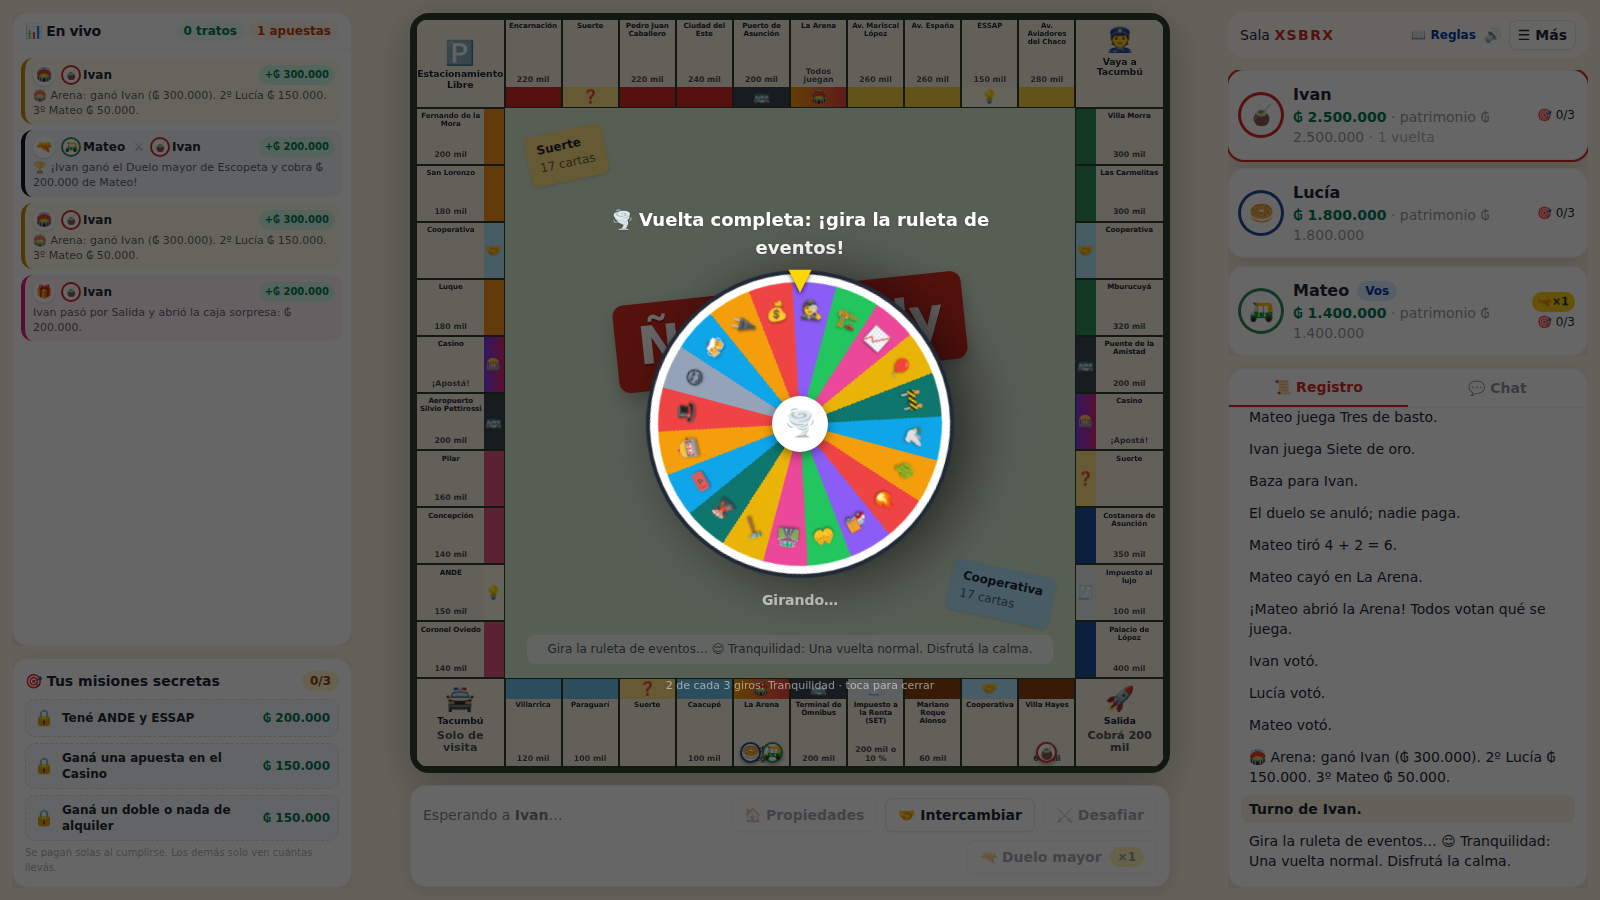
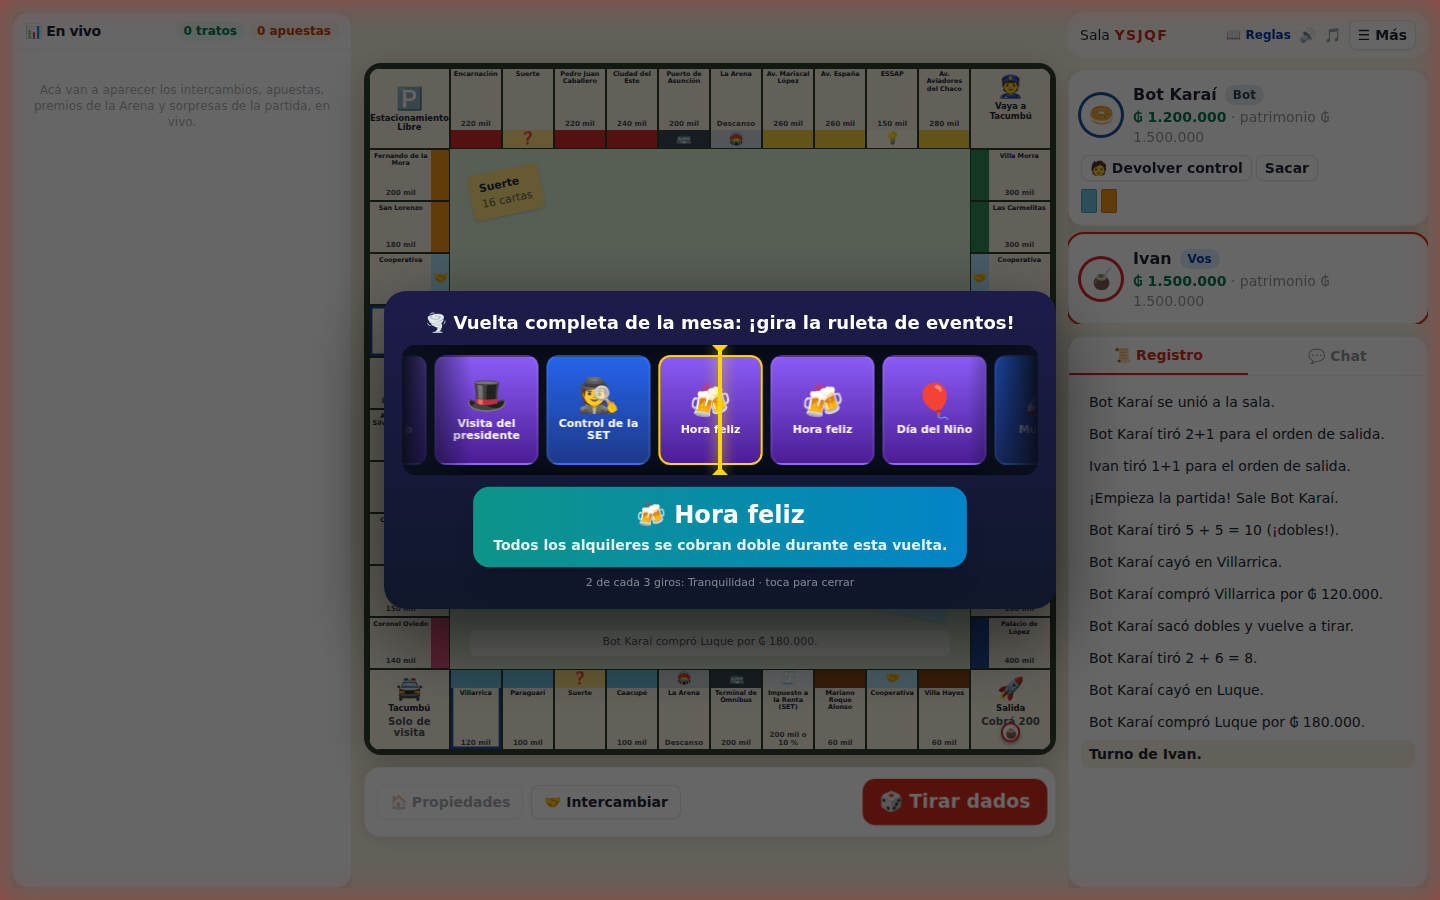
v1.3.3: carretes de caja y ruleta

diff --git a/apps/web/src/components/LootboxOverlay.tsx b/apps/web/src/components/LootboxOverlay.tsx
@@ -3,11 +3,12 @@ import { AnimatePresence, motion } from 'framer-motion';
 import { LOOTBOX } from '@nandepoly/engine';
 import { useStore } from '../store';
 import { epic, sfx } from '../sound';
+import { useReelSpin } from './reel';
 import { tokenEmoji } from '../format';
 
 const CELL = 96;      // ancho de cada premio en el carrete (px incl. gap)
 const CELLS = 40;     // celdas totales del carrete
-const WIN = 33;       // celda donde frena
+const WIN = 34;       // celda donde frena (las celdas pasan de derecha a izquierda)
 const SPIN_MS = 3500; // duración del giro
 
 const ICON: Record<string, string> = {
@@ -58,6 +59,9 @@ export default function LootboxOverlay() {
     return () => clearTimeout(t);
   }, [box?.id]); // eslint-disable-line react-hooks/exhaustive-deps
 
+  // El giro en sí arranca cuando el carrete ya está en pantalla (fase 'spin')
+  useReelSpin(stripRef, phase === 'spin', { cell: CELL, winCell: WIN, ms: SPIN_MS, direction: 'left', jitterKey: box?.id });
+
   // Apertura: fanfarria + giro
   useEffect(() => {
     if (!box?.openedAt) return;
@@ -66,17 +70,6 @@ export default function LootboxOverlay() {
     const start = setTimeout(() => {
       setPhase('spin');
       epic();
-      const strip = stripRef.current;
-      if (strip) {
-        strip.style.transition = 'none';
-        strip.style.transform = 'translateX(0px)';
-        const jitter = (Math.random() - 0.5) * (CELL * 0.6);
-        const target = -(WIN * CELL - (strip.parentElement!.clientWidth / 2 - CELL / 2)) + jitter;
-        requestAnimationFrame(() => {
-          strip.style.transition = `transform ${SPIN_MS}ms cubic-bezier(.08,.82,.17,1)`;
-          strip.style.transform = `translateX(${target}px)`;
-        });
-      }
       let n = 0;
       const schedule = (d: number) => { if (d > SPIN_MS - 100) return; timers.push(setTimeout(() => { sfx.tick(); n++; schedule(d + 40 + n * n * 1.9); }, d)); };
       schedule(60);

diff --git a/apps/web/src/components/EventWheel.tsx b/apps/web/src/components/EventWheel.tsx
@@ -3,10 +3,11 @@ import { AnimatePresence, motion } from 'framer-motion';
 import { EVENTS } from '@nandepoly/engine';
 import { useStore } from '../store';
 import { sfx } from '../sound';
+import { useReelSpin } from './reel';
 
 const CELL = 112;     // ancho de cada evento en el carrete (px incl. gap)
 const CELLS = 46;
-const WIN = 8;        // celda donde frena (el carrete avanza de izquierda a derecha)
+const WIN = 36;       // celda donde frena; el carrete llega desde la izquierda (las celdas pasan hacia la derecha)
 const SPIN_MS = 6000;
 const COLORS = ['lb-blue', 'lb-purple', 'lb-gold', 'lb-red', 'lb-blue', 'lb-purple'];
 
@@ -33,23 +34,13 @@ export default function EventWheel() {
     return out;
   }, [spin]);
 
+  // Las celdas pasan de izquierda a derecha y frenan con el evento ganador (celda WIN) bajo el marcador
+  useReelSpin(stripRef, !!spin, { cell: CELL, winCell: WIN, ms: SPIN_MS, direction: 'right', jitterKey: spin?.id });
+
   useEffect(() => {
     if (!spin) return;
     setDone(false);
-    const strip = stripRef.current;
     const timers: ReturnType<typeof setTimeout>[] = [];
-    if (strip) {
-      const width = strip.parentElement!.clientWidth;
-      // termina con la celda WIN en el centro; arranca mucho más a la izquierda (avanza hacia la derecha)
-      const end = width / 2 - CELL / 2 - WIN * CELL + (Math.random() - 0.5) * CELL * 0.5;
-      const start = end - (CELLS - WIN - 3) * CELL;
-      strip.style.transition = 'none';
-      strip.style.transform = `translateX(${start}px)`;
-      requestAnimationFrame(() => {
-        strip.style.transition = `transform ${SPIN_MS}ms cubic-bezier(.1,.8,.15,1)`;
-        strip.style.transform = `translateX(${end}px)`;
-      });
-    }
     let n = 0;
     const schedule = (d: number) => { if (d > SPIN_MS - 200) return; timers.push(setTimeout(() => { sfx.tick(); n++; schedule(d + 45 + n * n * 1.1); }, d)); };
     schedule(80);

diff --git a/apps/web/src/components/reel.ts b/apps/web/src/components/reel.ts
@@ -1,0 +1,28 @@
+import { useLayoutEffect, type RefObject } from 'react';
+
+/**
+ * Anima un carrete horizontal (estilo apertura de caja): arranca en `startCell`, recorre y frena con la celda
+ * `winCell` bajo el marcador central. `direction` 'left' = las celdas pasan hacia la izquierda (frena avanzando
+ * a la derecha del carrete); 'right' = las celdas pasan hacia la derecha.
+ * Se ejecuta cada vez que `active` pasa a true, después de que el carrete esté en el DOM.
+ */
+export function useReelSpin(stripRef: RefObject<HTMLDivElement>, active: boolean, opts: { cell: number; winCell: number; ms: number; direction: 'left' | 'right'; jitterKey?: number }) {
+  useLayoutEffect(() => {
+    if (!active) return;
+    const strip = stripRef.current;
+    if (!strip || !strip.parentElement) return;
+    const width = strip.parentElement.clientWidth;
+    const jitter = ((((opts.jitterKey ?? 0) * 9301 + 49297) % 233280) / 233280 - 0.5) * opts.cell * 0.55;
+    const end = width / 2 - opts.cell / 2 - opts.winCell * opts.cell + jitter;   // celda ganadora centrada
+    const travel = opts.cell * 28;                                                // distancia recorrida
+    const start = opts.direction === 'left' ? end + travel : end - travel;
+    strip.style.transition = 'none';
+    strip.style.transform = `translate3d(${start}px, 0, 0)`;
+    void strip.getBoundingClientRect(); // fuerza reflow para que el navegador tome el punto de partida
+    const raf = requestAnimationFrame(() => requestAnimationFrame(() => {
+      strip.style.transition = `transform ${opts.ms}ms cubic-bezier(.08,.82,.17,1)`;
+      strip.style.transform = `translate3d(${end}px, 0, 0)`;
+    }));
+    return () => cancelAnimationFrame(raf);
+  }, [active]); // eslint-disable-line react-hooks/exhaustive-deps
+}

diff --git a/README.md b/README.md
@@ -9,6 +9,7 @@ Juego de compra-venta de propiedades estilo clásico, **ambientado en Paraguay**
 - **Modo timba (opcional, se activa en el lobby):** Casinos con Ruleta 49/51 (carrete estilo apertura de caja), Quiniela, Doble o nada y Carrera de carretas; Jackpot que se lleva el doble seis; alquiler a doble o nada; y **desafíos** entre jugadores (duelo de dados, piedra-papel-tijera, trivia paraguaya con 172 preguntas, tereré caliente) por botón o por las cartas ¡Desafío!.
 - **Modo fiesta (v1.3, opcional):** 🏟 **La Arena** (al caer, todos juegan a la vez uno de 11 mini-juegos votado entre 3 — Trivia relámpago, Caña dulce, Frená la barra, ¿Cuántos hay?, Palabra bomba con diccionario, Carrera de sapos, Duelo del Oeste, Esquivá el rayo, Penales, Ruleta rusa de globos y Adiviná el dibujo — y el banco paga 300/150/50 mil; el más pobre dobla), 🎁 **Caja sorpresa** al pasar por Salida (carrete estilo "skin club", promedio ≈ ₲ 200.000), 🎯 **Misiones secretas** (3 por jugador, se pagan solas), 🌪 **Eventos globales** (ruleta de 20 eventos cada vuelta completa de la mesa; 2 de cada 3 giros: tranquilidad) y 🔫 **Duelo mayor** (una ficha cada 3 vueltas para retar por hasta ₲ 500.000 a **Escopeta** —cartuchos de verdad y de fogueo, lupa, cerveza y esposas— o **Truco paraguayo** a 15 con envido, flor, truco, retruco y vale cuatro).
 - 📊 **Tabla en vivo** a la izquierda del tablero: intercambios propuestos/aceptados/rechazados con animación, "X está negociando con Y", dobles o nada, desafíos, premios de la Arena, duelos, cajas, eventos y misiones.
+- v1.3.3: los carretes de la caja sorpresa y de la ruleta de eventos ahora sí se ven girar (arrancaban antes de estar en pantalla y quedaban congelados); prueba automática `node e2e/reels.mjs` que mide el movimiento.
 - v1.3.2: Carrera de sapos **vertical** (los sapos saltan solos y cada vez más rápido; vos solo cambiás de carril; charco = afuera); truco del duelo **a 2 manos**; en la Arena dobla el que tiene **menos efectivo** (también de a dos); saldos que ya no se quedan "trabados" al animarse; las fichas avanzan más despacio y la compra/alquiler/casilla aparece **recién cuando la ficha llega**; Escopeta con turno destacado e historial de cartuchos; explicación de globos y jackpot en pantalla.
 - Detalles v1.3.1: botón **Abrir caja** con fanfarria épica y giro de 3,5 s; ruleta de eventos como carrete de 6 s; cuenta regresiva 3-2-1 antes de cada mini-juego (reloj sincronizado con el servidor); trivia que muestra lo que respondió cada uno; ¿Cuántos hay? revela la respuesta; Duelo del Oeste con blanco + botón DISPARAR; duelo de dados con botón para tirar; Escopeta con ayuda y "¡BOOM!"; música de fondo suave (🎵 para apagarla); dados 3D corregidos dentro de los diálogos.
 - Animaciones: billetes que vuelan entre jugadores, saldos que cuentan, +/− flotantes, temblor en pagos grandes, confeti al completar un grupo o ganar, dados y cartas en 3D, rejas al ir preso, racha 🔥 de alquileres, carrete de la caja, ruleta de eventos, podio de la Arena.
@@ -180,6 +181,7 @@ DEBUG_TOOLS=1 pnpm start &     # para la siguiente hace falta el servidor con ga
 node e2e/casino.mjs            # casino (ruleta, carrera, doble o nada), alquiler a doble o nada, trivia y piedra-papel-tijera
 node e2e/v13.mjs               # v1.3: caja sorpresa, Arena, duelos (Escopeta y Truco), ruleta de eventos, tabla en vivo
 node e2e/mobile.mjs            # capturas en celular
+node e2e/reels.mjs             # verifica que los carretes (caja y ruleta de eventos) se mueven y frenan en el premio
 ```
 
 ## Problemas frecuentes
